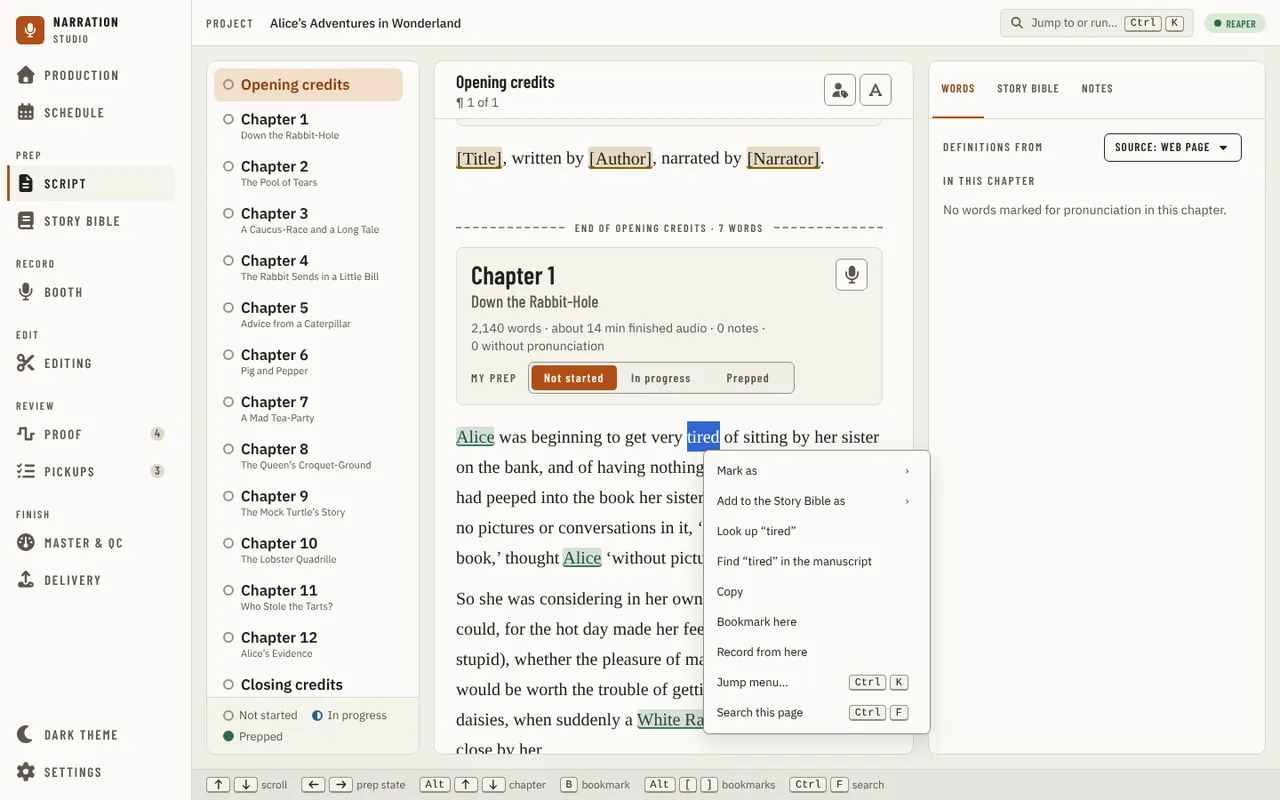
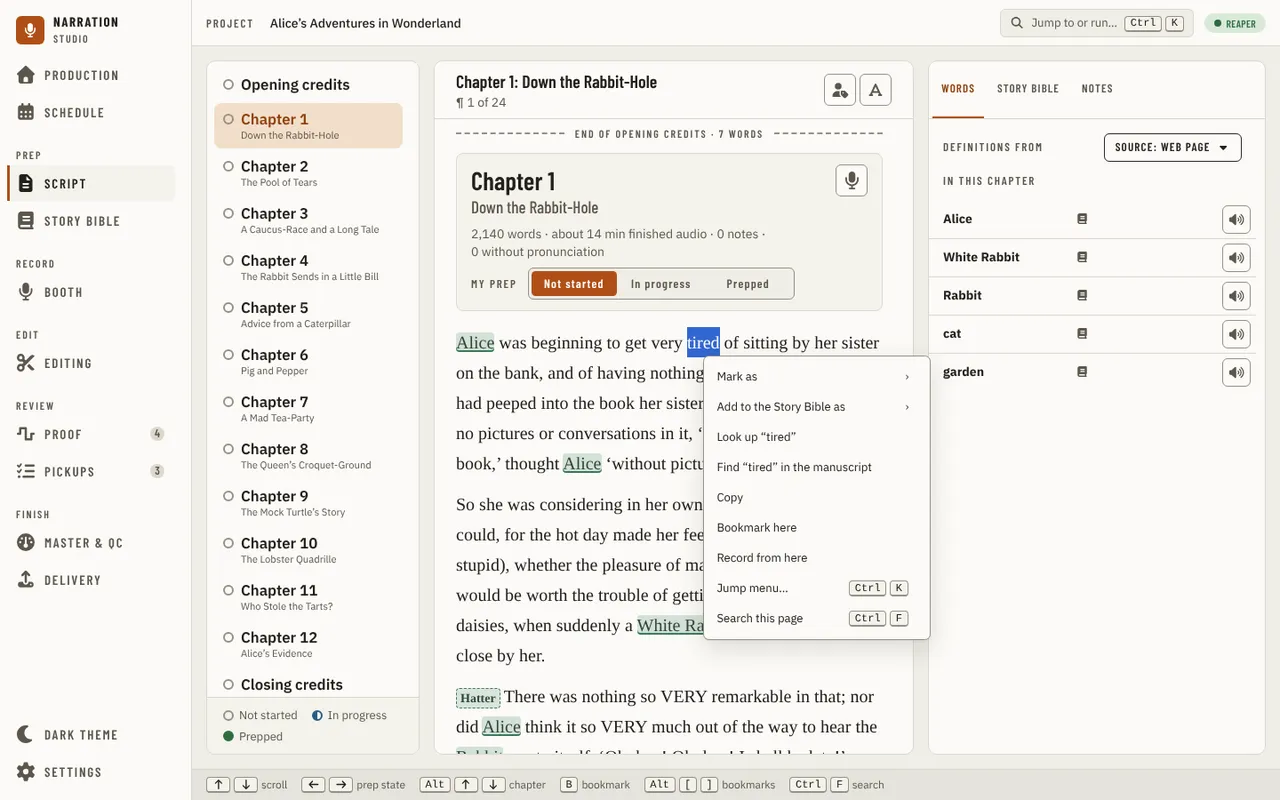
test(ui): selecting a reader word leaves the word's own chapter in view
The reader names the chapter whose heading is within 70px of its top and the rail follows it.
Centring the word left Chapter 1's heading 114px down on the wider column, so the rail listed
the opening credits' words (none) and script-rail failed. The driver now brings the heading to
the top when centring left another chapter in view and the word stays on screen.

Refs #2251

Claude-Session: https://claude.ai/code/session_01EBTykh6zqj7tQtwPSXXgS4

diff --git a/src/studio/ui/tests/visual/drivers/shared.ts b/src/studio/ui/tests/visual/drivers/shared.ts
@@ -518,6 +518,16 @@ export async function selectReaderWord(page: Page, word: string): Promise<void> 
             top: scroller.scrollTop + at.top + at.height / 2 - (scroller.getBoundingClientRect().top + scroller.clientHeight / 2),
             behavior: 'instant',
           });
+        // The reader names the chapter whose heading is at or above 70 px under its top, and the rail follows it. Centring can leave the
+        // word's own chapter heading lower than that (a wide column puts a paragraph close under its heading), and the rail would then
+        // list the chapter before it. Bring the heading to the top, as a jump to the chapter does, when the word stays on screen under it.
+        const bound = scroller && paragraph.closest<HTMLElement>('[data-para]')?.dataset.ch;
+        const heading = bound ? scroller?.querySelector<HTMLElement>(`[data-bound][data-ch="${bound}"]`) : null;
+        if (scroller && heading && heading.offsetTop - scroller.scrollTop > 70) {
+          const target = Math.max(0, heading.offsetTop - 8);
+          const wordTop = range.getBoundingClientRect().top - scroller.getBoundingClientRect().top - (target - scroller.scrollTop);
+          if (wordTop >= 64) scroller.scrollTo({ top: target, behavior: 'instant' });
+        }
         const selection = window.getSelection();
         selection?.removeAllRanges();
         selection?.addRange(range);
